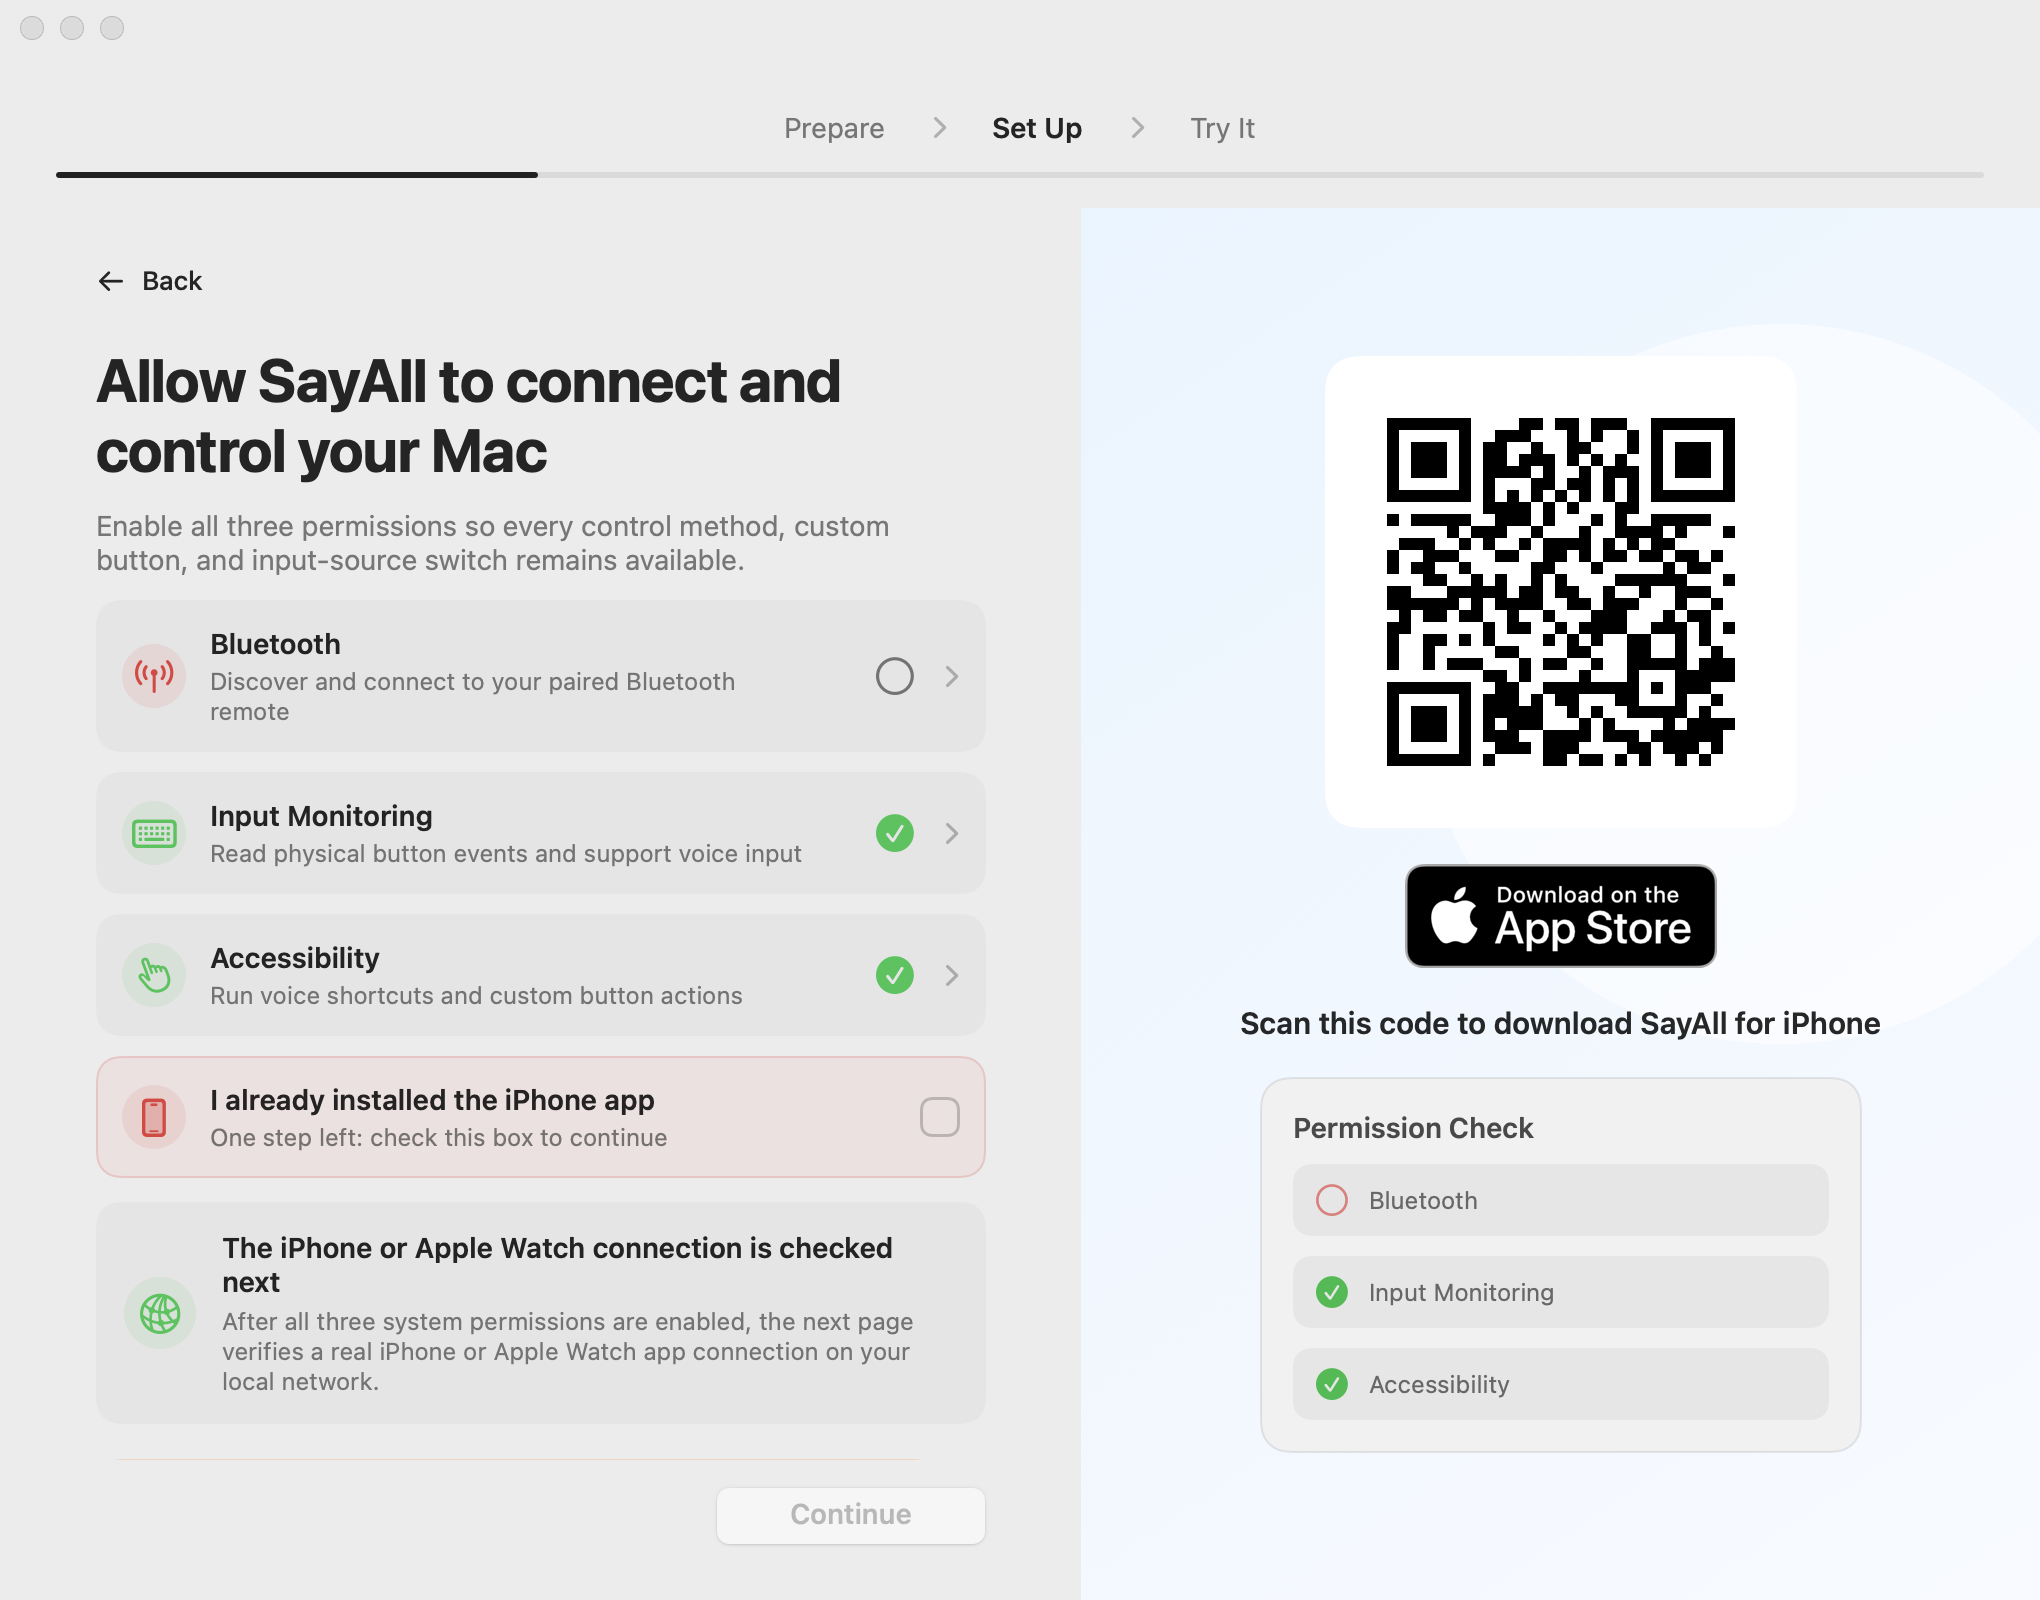
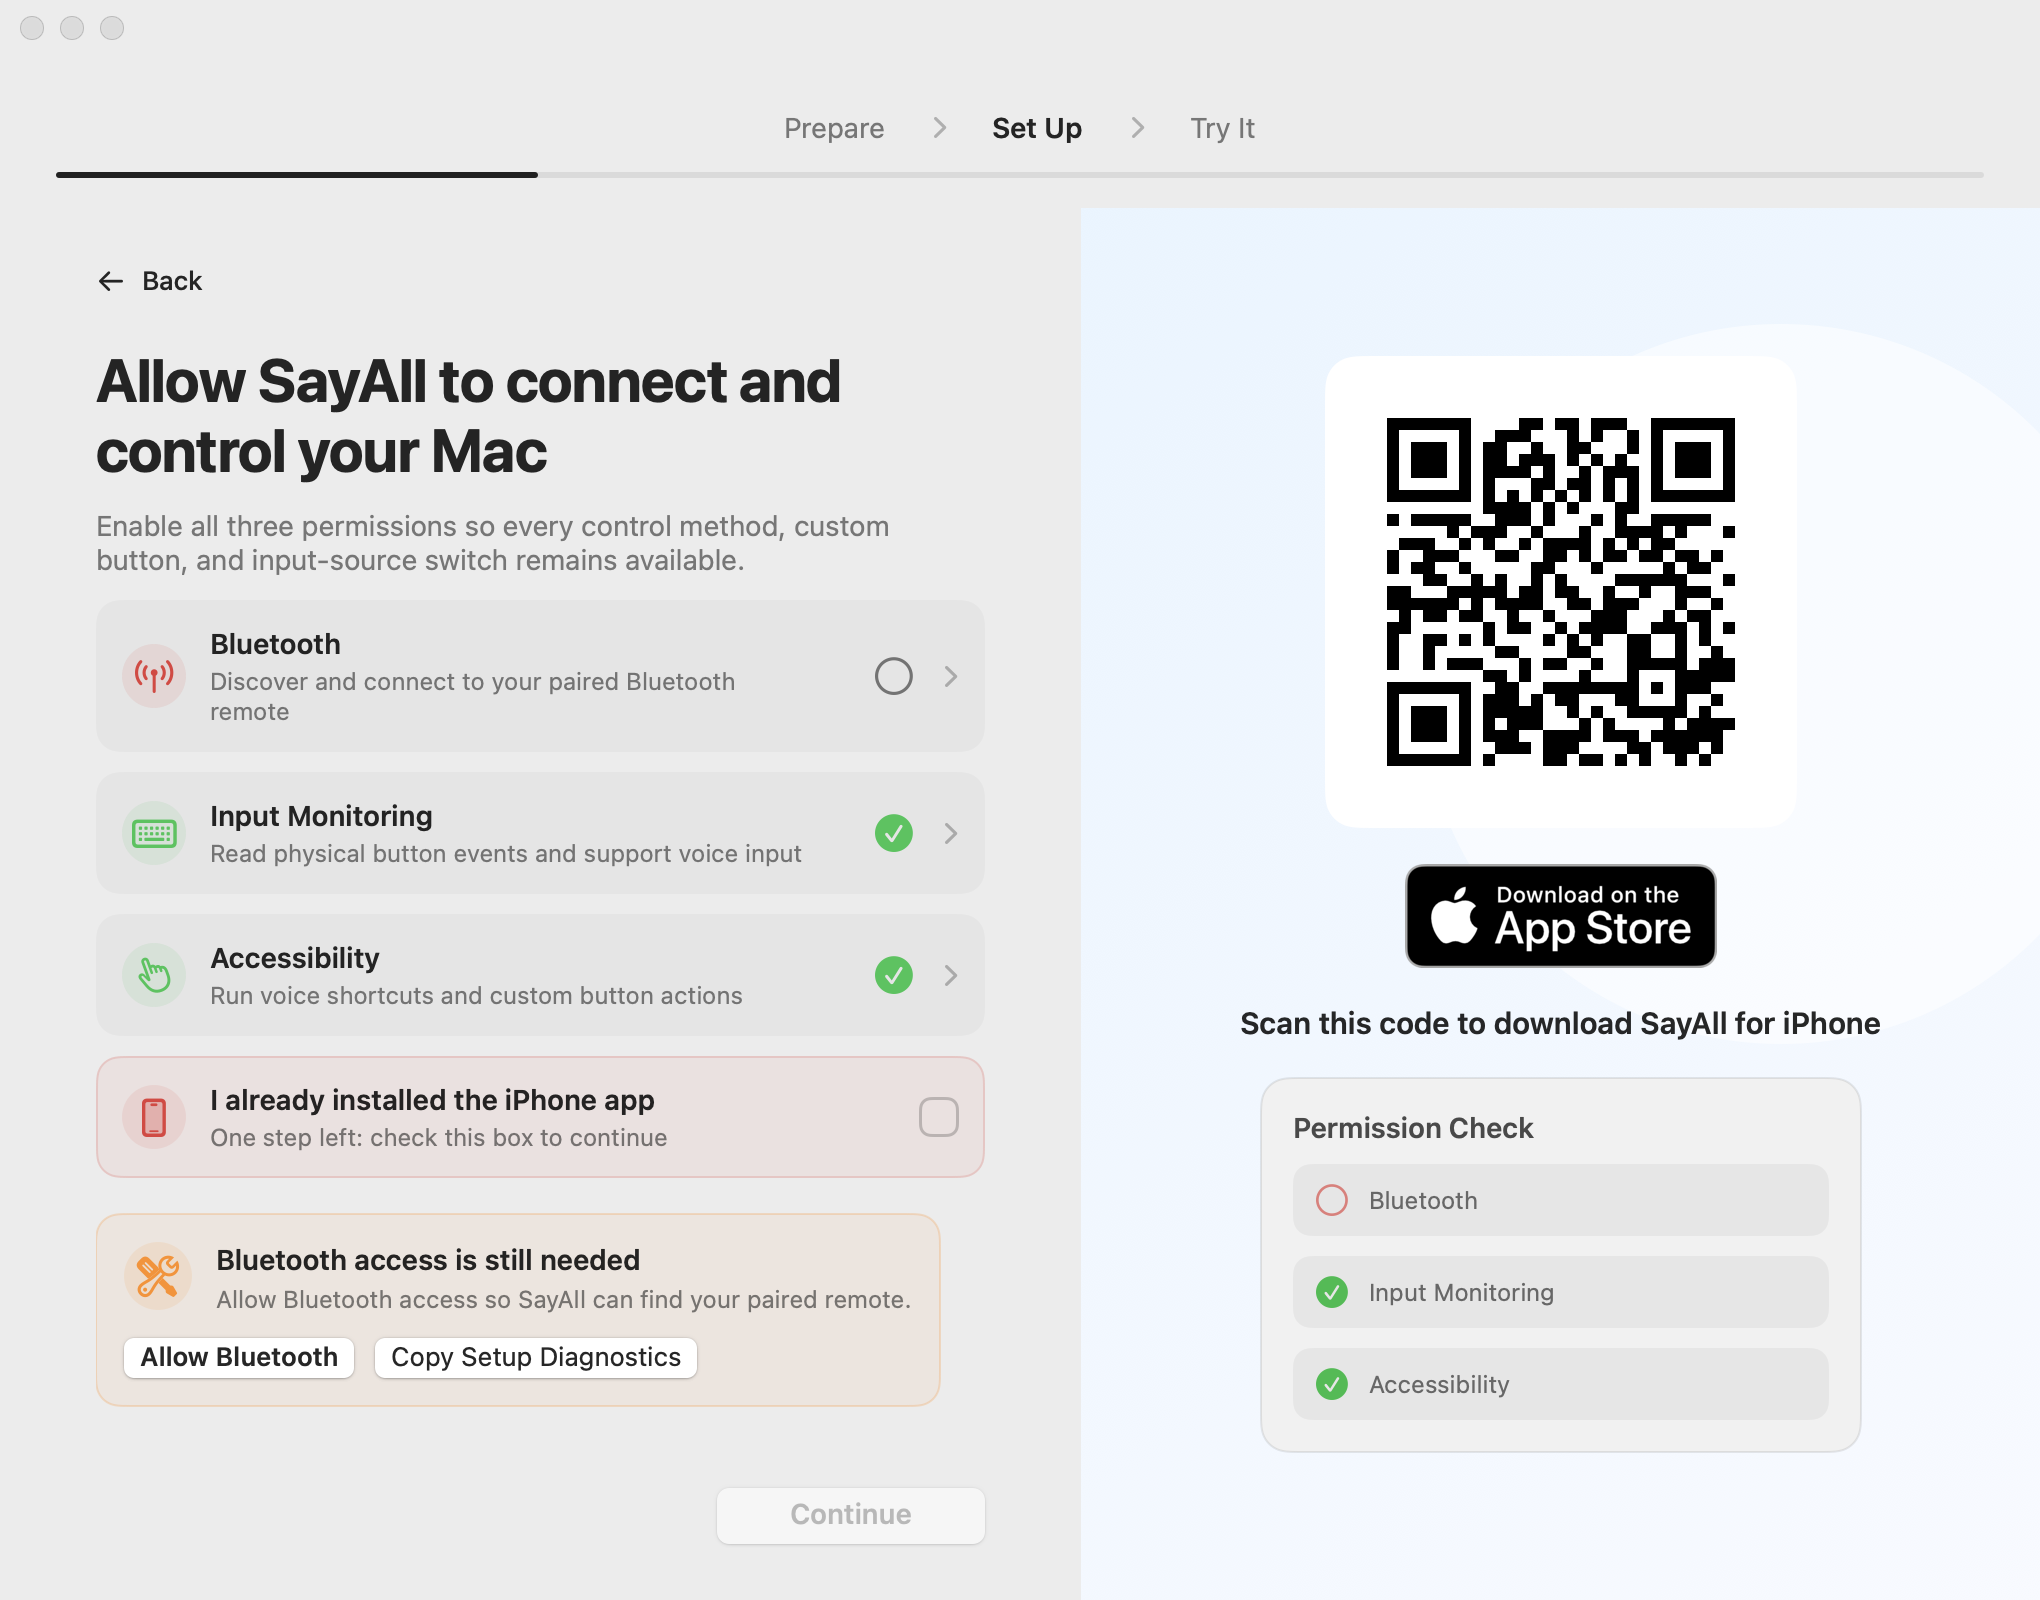
fix(onboarding): drop the redundant next-page check card
The permissions step showed a "the iPhone or Apple Watch connection is
checked on the next page" card right below the list. Now that the
installed-app row says "confirmed, the next page verifies it with a real
connection" once checked, the card repeats the same sentence, so remove
it and let the row be the last item in the list.

Its six copy keys (apple_companion, web_remote, mobile_network) had no
other reader once the card was gone, so they go too. A new test pins the
removal: the permissions section must not call statusCard, and neither
the view nor either strings file may reference those keys again.

Changed region(s): [[0.0618, 0.75, 0.4632, 0.875]]

diff --git a/Tests/RemoteMicTests/OnboardingFlowTests.swift b/Tests/RemoteMicTests/OnboardingFlowTests.swift
@@ -1814,6 +1814,49 @@ struct OnboardingFlowTests {
         #expect(rendererSource.contains("completeRuntimeReadyOverride: true"))
     }
 
+    @Test func permissionsPageNoLongerShowsTheNextPageCheckCard() throws {
+        let root = URL(fileURLWithPath: #filePath)
+            .deletingLastPathComponent()
+            .deletingLastPathComponent()
+            .deletingLastPathComponent()
+        let viewSource = try String(
+            contentsOf: root.appendingPathComponent("Sources/RemoteMic/OnboardingView.swift"),
+            encoding: .utf8
+        )
+        let chinese = try String(
+            contentsOf: root.appendingPathComponent("Resources/zh-Hans.lproj/Localizable.strings"),
+            encoding: .utf8
+        )
+        let english = try String(
+            contentsOf: root.appendingPathComponent("Resources/en.lproj/Localizable.strings"),
+            encoding: .utf8
+        )
+
+        // 权限页原有一张「iPhone 或 Apple Watch 连接将在下一页检查」的提示卡，
+        // 和勾选项「已确认，下一页会用真实连接验证」说的是同一件事，2026-10-24 移除。
+        // 文案键也一并删掉，不留死键；这条用例防止它以任何形式长回来。
+        let permissionsStart = try #require(viewSource.range(of: "private var permissionsContent"))
+        let permissionsEnd = try #require(viewSource.range(
+            of: "private var shortcutLearningCard",
+            range: permissionsStart.upperBound..<viewSource.endIndex
+        ))
+        let permissionsSource = viewSource[permissionsStart.lowerBound..<permissionsEnd.lowerBound]
+        #expect(!permissionsSource.contains("statusCard("))
+
+        for key in [
+            "onboarding.permissions.apple_companion.title",
+            "onboarding.permissions.apple_companion.detail",
+            "onboarding.permissions.web_remote.title",
+            "onboarding.permissions.web_remote.detail",
+            "onboarding.permissions.mobile_network.title",
+            "onboarding.permissions.mobile_network.detail",
+        ] {
+            #expect(!viewSource.contains(key))
+            #expect(!chinese.contains("\"\(key)\""))
+            #expect(!english.contains("\"\(key)\""))
+        }
+    }
+
     @Test func audioStepOnlyOffersSupportedVirtualAudioDevices() throws {
         let root = URL(fileURLWithPath: #filePath)
             .deletingLastPathComponent()
@@ -1837,10 +1880,6 @@ struct OnboardingFlowTests {
         #expect(audioSource.contains("model.applyAudioSettings(reason: \"onboarding_audio_device_selected\")"))
         #expect(viewSource.contains("OnboardingAudioSelectionPolicy.isSupportedDevice"))
         #expect(viewSource.contains("onboarding.audio.on_demand_detail"))
-        #expect(viewSource.contains("onboarding.permissions.apple_companion.title"))
-        #expect(viewSource.contains("onboarding.permissions.apple_companion.detail"))
-        #expect(viewSource.contains("onboarding.permissions.web_remote.title"))
-        #expect(viewSource.contains("onboarding.permissions.web_remote.detail"))
         #expect(viewSource.contains("onboarding.side.audio_on_demand"))
     }
 

diff --git a/Sources/RemoteMic/OnboardingView.swift b/Sources/RemoteMic/OnboardingView.swift
@@ -1401,15 +1401,6 @@ struct OnboardingView: View {
                 }
             }
 
-            if settings.onboardingControlMethod.usesOnDemandAudioOutput {
-                statusCard(
-                    icon: "network",
-                    title: localization.text(mobilePermissionTitleKey),
-                    detail: localization.text(mobilePermissionDetailKey),
-                    isComplete: true
-                )
-            }
-
         }
     }
 
@@ -2152,18 +2143,6 @@ struct OnboardingView: View {
             }
             .padding(.top, 4)
         }
-    }
-
-    private var mobilePermissionTitleKey: String {
-        settings.onboardingControlSource == .appleCompanion
-            ? "onboarding.permissions.apple_companion.title"
-            : "onboarding.permissions.web_remote.title"
-    }
-
-    private var mobilePermissionDetailKey: String {
-        settings.onboardingControlSource == .appleCompanion
-            ? "onboarding.permissions.apple_companion.detail"
-            : "onboarding.permissions.web_remote.detail"
     }
 
     private var physicalRemotePairingKeys: (

diff --git a/Testing/FirstRunOnboarding.md b/Testing/FirstRunOnboarding.md
@@ -62,7 +62,9 @@
 
 适用分支：`codex/onboarding-membership-sheet`。本次在权限页左栏加一行必选勾选项，不改右栏二维码、会员提示、弹窗，也不改任何权限判定。
 
-位置：权限清单的第 4 项，**在三条系统权限之下、「iPhone 或 Apple Watch 连接将在下一页检查」提示卡之上**，与权限行同一列、同一 10pt 间距，读起来是清单里多出来的一项，而不是另一块卡片。
+位置：权限清单的第 4 项，**在三条系统权限之下**，与权限行同一列、同一 10pt 间距，读起来是清单里多出来的一项，而不是另一块卡片。
+
+同一轮还移除了原来紧跟其后的那张「iPhone 或 Apple Watch 连接将在下一页检查」提示卡（`statusCard(icon: "network", …)`）：它和勾选项的「已确认，下一页会用真实连接验证」说的是同一件事，留着等于同一句话讲两遍。卡片的 6 个文案键（`onboarding.permissions.apple_companion.*`、`onboarding.permissions.web_remote.*`、`onboarding.permissions.mobile_network.*`）一并删除，不留死键；`permissionsPageNoLongerShowsTheNextPageCheckCard()` 反向锁定，防止它长回来。
 
 形态（设计稿方案 C，两态）：
 
@@ -81,10 +83,11 @@
 ### 自动化与构建
 
 - `swift build --disable-keychain --disable-sandbox` 公开构建通过。
-- `swift test --disable-keychain --disable-sandbox --filter OnboardingFlowTests`：79 项通过，含本次新增两条：
+- `swift test --disable-keychain --disable-sandbox --filter OnboardingFlowTests`：80 项通过，含本次新增三条：
   - `iphoneAppConfirmationGatesThePermissionsStepOnlyOnTheIPhonePath()`：三项权限全开、只差勾选时 iPhone 路径不能继续；勾选后可以；实体遥控器与网页遥控不受影响；不传参数时保持原行为。
   - `iphoneAppConfirmationRowIsAToggleOnTheIPhonePathOnly()`：托管生产视图后，iPhone 路径注册了 `permission.iphone-app-installed` 开关、初值 false、`invoke` 后变 true；实体遥控器路径没有这个开关；`initialPhoneAppInstalled: true` 能预置已勾选。
-- `swift test --disable-keychain --disable-sandbox --filter LocalizationTests`：中英文 key 集合一致（本次新增 3 个键）。
+  - `permissionsPageNoLongerShowsTheNextPageCheckCard()`：权限段落里不再出现 `statusCard(`，视图与两份 strings 都不再引用被删的 6 个文案键。
+- `swift test --disable-keychain --disable-sandbox --filter LocalizationTests`：中英文 key 集合一致（本次新增 3 个键、删除 6 个键，两边同步）。
 
 ### 离屏渲染证据
 
@@ -92,16 +95,16 @@
 
 | 文件 | 外观 / 语言 / 状态 | SHA-256 |
 | --- | --- | --- |
[8 lines of base64/hex data omitted]
 
-渲染环境没有蓝牙权限，所以四张图里「继续」都是禁用的；「勾选后解锁继续」由上面的纯函数用例证明，不由截图证明。
+渲染环境没有蓝牙权限，所以四张图里「继续」都是禁用的，且勾选项下方会出现橙色的「还需要蓝牙权限」运行期提示卡（这不是固定内容，权限开启后消失）；「勾选后解锁继续」由上面的纯函数用例证明，不由截图证明。
 
 ### 生产页面检查
 
-1. 完整构建、选择 iPhone 来源进入权限页，确认左栏清单是 4 项，第 4 项在「辅助功能」之下、提示卡之上，与上面三项左边线对齐、间距一致。
+1. 完整构建、选择 iPhone 来源进入权限页，确认左栏清单是 4 项，第 4 项在「辅助功能」之下、是清单的最后一项（它下面不应再有「iPhone 或 Apple Watch 连接将在下一页检查」那张卡），与上面三项左边线对齐、间距一致。
 2. 未勾选时该行底色明显比其余三行更亮/更染，且有一条细描边；右侧是空方框，说明文字为「还差这一步：勾选后才能继续」。
 3. 点这一行任意位置（图标、标题、空白处都要试），确认整行都能勾选，不是只有方框能点。
 4. 勾选后确认底色立刻褪回与权限行一致、图标变绿、方框变绿带白勾、说明变成「已确认，下一页会用真实连接验证」；再次点击可取消勾选。
@@ -113,6 +116,7 @@
 ### 失败判定与边界
 
 - 该行出现在三条权限之上、被挤进右栏、与权限行间距不一致或左边线参差，均判定失败。
+- 勾选项下面又冒出「iPhone 或 Apple Watch 连接将在下一页检查」那张卡（同一句话说两遍），判定失败。
 - 只有方框能点、点标题或行内空白没有反应，说明点击目标没覆盖整行，判定失败。
 - 勾选前后底色没有变化，或勾选后仍然保留强调底色与描边，判定失败。
 - 三项权限全开、未勾选时「继续」仍可点，或勾选后仍不可点，判定失败。
